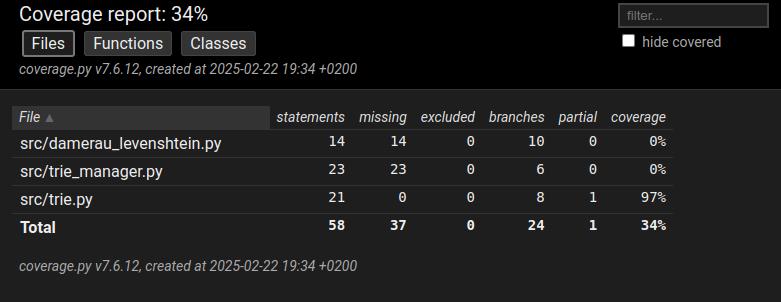
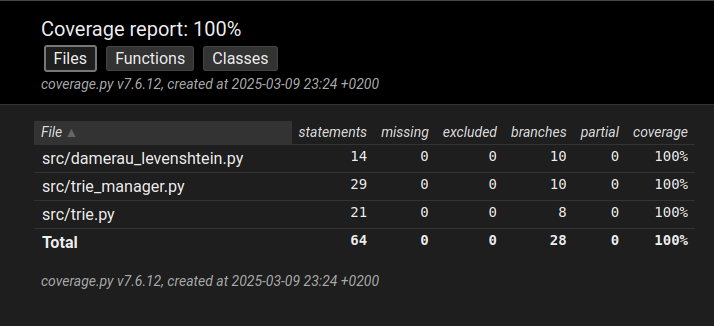
testing doc

diff --git a/dokumentaatio/testausdokumentti.md b/dokumentaatio/testausdokumentti.md
@@ -1,5 +1,23 @@
 # Testaus
 
-Testikattavuusraportti 22.2.
+Sovellusta on testattu sekä automaattisilla yksikkö- ja integraatiotesteillä että manuaalisesti. Testeissä käytetään pientä sanastoa ```test_vocabulary.txt```.
+
+## Testikattavuus
+
+Testikattavuus 9.3.2025. Tietorakenteita ja algoritmia käsittelevän koodin testikattavuus on 100%.
 
 ![coverage_report](./images/coverage_report.png)
+
+## Yksikkö- ja integraatiotestaus
+
+Sovellusta on testattu automaattisilla unittestin yksikkö- ja integraatiotesteillä. 
+
+Testit testaavat pääasiassa trie-tietokannan toimintaa, mutta se on hyvin ytimessä sovelluksen toiminnassa. Testi ```test_get_distances``` testaa ```TrieManagerin``` ja ```damerau_levenshtein```-funktion yhteistoimintaa.
+
+Luokka [TestTrieStructure](../src/trie.py) testaa ```Trie```-oliota, ja luokka [TestTrieManager](../src/tests/trie_manager_test.py) testaa ```TrieManager```-oliota sekä sen kanssakäymistä ```Trie```-olion kanssa.
+
+## Manuaalinen testaus
+
+Moduulin ```main.py``` toimintaa on testattu manuaalisesti. Monet sovelluksen antamat vastaukset ovat helposti pääteltävissä ja sanastotiedostot helposti näkyvissä, joten siten testaaminen kävi helposti manuaalisesti. Esimerkiksi tilanteissa, joissa kirjoitetaan tarkoituksella sana väärin, on oletettavaa, että sovellus kertoo, että sana on kirjoitettu väärin ja ehdottaa toista sanaa.
+
+Manuaalisessa testauksessa opin, että ohjelma ehdottaa aakkosjärjestyksessä seuraavaa sanaa, jos samalla etäisyydellä olevia sanoja olisi useita.
